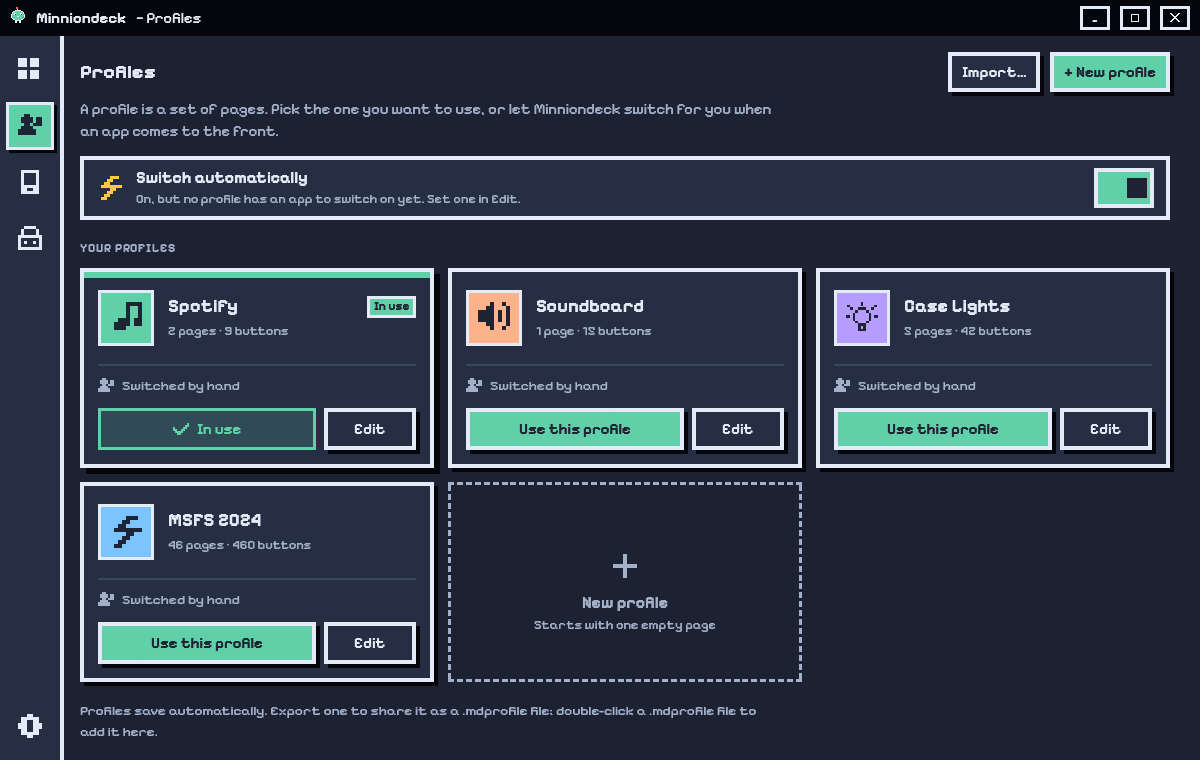
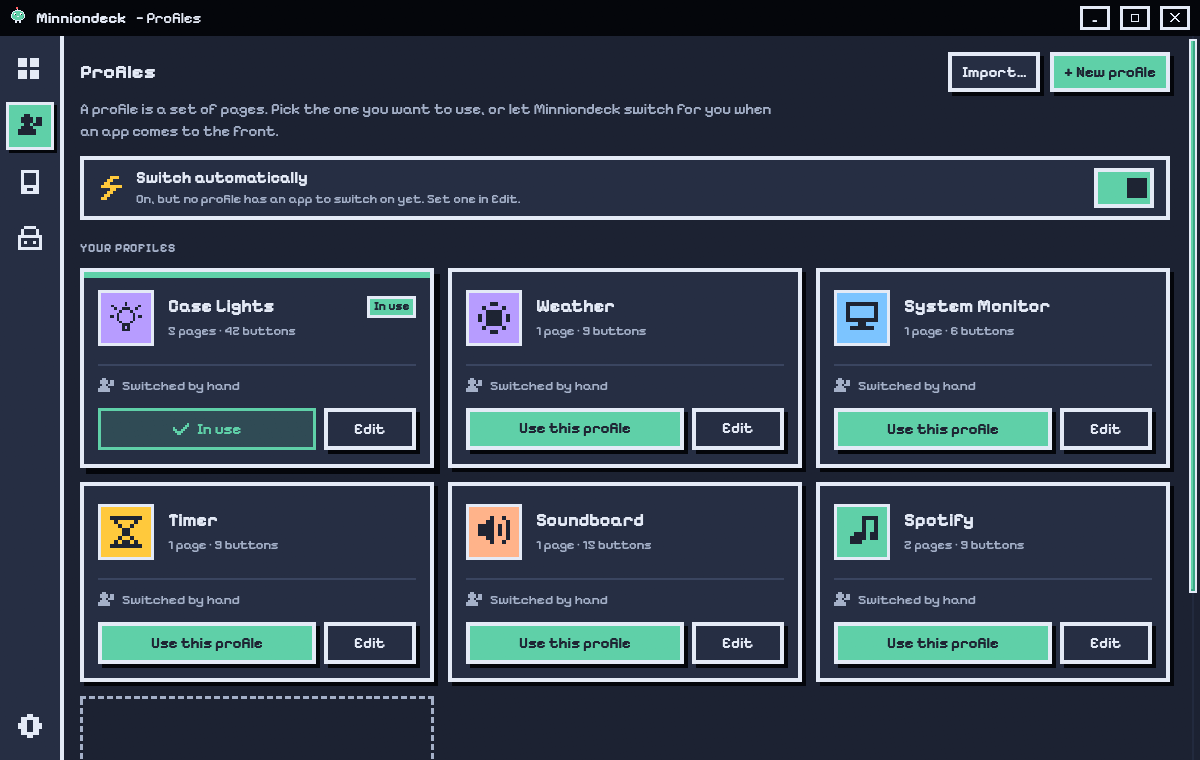
README: show the range of plugins, leave out MSFS for now

diff --git a/README.md b/README.md
@@ -5,7 +5,7 @@
 # MinnionDeck
 
 **A Stream Deck for your Windows PC, with no hardware to buy.**
-Big square buttons for music, apps, keys, lights, games and more, on your screen and on any phone.
+Big square buttons for apps, keys, sounds, timers, weather, PC lights and more, on your screen and on any phone.
 
 [![Release](https://img.shields.io/github/v/release/minnnion/MinnionDeck?color=5fd0a8&label=release)](https://github.com/minnnion/MinnionDeck/releases/latest)
 ![Platform](https://img.shields.io/badge/platform-Windows%2010%20%2F%2011-7cc4ff)
@@ -14,7 +14,7 @@ Big square buttons for music, apps, keys, lights, games and more, on your screen
 
 **[Download](https://github.com/minnnion/MinnionDeck/releases/latest)** · **[Website](https://minnnion.github.io)** · **[Features](#features)** · **[How it works](#how-it-works)**
 
-<img src="docs/screenshots/deck.png" alt="MinnionDeck showing the Spotify profile" width="880">
+<img src="docs/screenshots/deck.png" alt="MinnionDeck showing the Case Lights profile" width="880">
 
 </div>
 
@@ -22,22 +22,22 @@ Big square buttons for music, apps, keys, lights, games and more, on your screen
 
 ## Why MinnionDeck
 
-Streamers, gamers, flight-sim pilots and anyone who does the same things on a PC over and over want **one press for each job**. A hardware deck is one way to do that, but it costs money, takes desk space and only works where it's plugged in.
+Streamers, gamers and anyone who does the same things on a PC over and over want **one press for each job**. A hardware deck is one way to do that, but it costs money, takes desk space and only works where it's plugged in.
 
 MinnionDeck gives you the same thing in software:
 
 - **No hardware.** Your PC screen is the deck, and so is any phone or tablet you already own.
 - **Nothing to install on the phone.** Scan a QR code, press Allow on the PC, and your buttons are on the phone.
 - **Made to look good.** A crisp pixel-art style, with your own pictures and GIFs if you prefer.
-- **Free plugins.** Spotify, a soundboard, timers, weather, PC case lights, Microsoft Flight Simulator and more, each with a ready-made profile.
+- **Free plugins.** A soundboard, timers, weather, a live system monitor, PC case lights, music and more, each with a ready-made profile.
 - **Your data stays yours.** Everything lives in one folder you choose, encrypted with a key made for your install.
 
 ## Who it's for
 
 | | |
 |---|---|
-| **Streamers** | Scene and sound buttons, a soundboard, music controls, all on a phone beside the camera. |
-| **Gamers and sim pilots** | Whole cockpits of switches and knobs for Microsoft Flight Simulator 2024 and the Fenix A320, page after page. |
+| **Streamers** | Sound effects, scene keys and timers, all on a phone beside the camera. |
+| **Gamers** | Key combinations and macros, a soundboard, and CPU, GPU and memory at a glance while you play. |
 | **Everyday work** | Open apps and websites, type text you use often, mute, change volume, run key combinations. |
 | **Home office and desk setups** | Change your PC case lights, keep an eye on CPU, GPU and memory, start a focus timer. |
 
@@ -53,12 +53,25 @@ MinnionDeck gives you the same thing in software:
 
 <div align="center">
 <img src="docs/screenshots/editor.png" alt="Making a new button: choosing what it does" width="820">
-<br><sub>Making a button: give it a name, pick what it does from built-in actions and plugins, and see it as you go.</sub>
+<br><sub>Making a button: pick what it does, fill in the details, and give it a look for each state (here a countdown: Stopped and Running).</sub>
 </div>
+
+### Decks for everything
+
+<table>
+<tr>
+<td align="center" width="50%"><img src="docs/screenshots/timer.png" alt="Timer profile"><br><sub><b>Timer</b>: focus, stopwatch, clock and one-press countdowns</sub></td>
+<td align="center" width="50%"><img src="docs/screenshots/weather.png" alt="Weather profile"><br><sub><b>Weather</b>: now, high and low, rain, wind, air quality</sub></td>
+</tr>
+<tr>
+<td align="center" width="50%"><img src="docs/screenshots/system-monitor.png" alt="System Monitor profile"><br><sub><b>System Monitor</b>: CPU, GPU, memory, disk and network, live</sub></td>
+<td align="center" width="50%"><img src="docs/screenshots/soundboard.png" alt="Soundboard profile"><br><sub><b>Soundboard</b>: a sound on every key, and one to stop them all</sub></td>
+</tr>
+</table>
 
 ### Profiles that switch by themselves
 
-Keep a profile for each thing you do. Turn on **Switch automatically** and MinnionDeck changes profile when an app such as Spotify or your game comes to the front. Export a profile as a `.mdprofile` file to share it; double-click one to add it.
+Keep a profile for each thing you do. Turn on **Switch automatically** and MinnionDeck changes profile when an app such as your game, browser or music player comes to the front. Export a profile as a `.mdprofile` file to share it; double-click one to add it.
 
 <div align="center">
 <img src="docs/screenshots/profiles.png" alt="The Profiles page" width="820">
@@ -73,26 +86,25 @@ Open the **Phones** page, scan the QR code with your phone's camera and open the
 - Add it to your home screen and it opens full screen, like an app.
 
 <div align="center">
-<img src="docs/screenshots/phone-preview.png" alt="The phone preview on the Phones page" width="560">
+<img src="docs/screenshots/phone-preview.png" alt="The phone preview on the Phones page, in portrait" width="460">
 </div>
 
 ### Plugins from the Marketplace
 
-Plugins add whole sets of buttons. Install them from the **Marketplace** page inside the app, or tick them in the setup. Each one comes with a ready-made profile, and every download is checked against its SHA-256 before it installs.
+Plugins add whole sets of buttons. Install them from the **Marketplace** page inside the app (open one to see what it adds and what's new), or tick them in the setup. Each one comes with a ready-made profile, and every download is checked against its SHA-256 before it installs.
 
 | Plugin | What it adds |
 |---|---|
-| **Spotify** | Play or pause, next and previous, like, volume and a live Now playing screen. |
-| **Soundboard** | Play sound files from your buttons. |
-| **Timer** | Clock, countdown, stopwatch and focus timer. |
-| **Weather** | Live weather on your buttons. |
-| **System Monitor** | CPU, GPU, memory, disk, network and the busiest app, live. |
 | **Case Lights** | Finds out why your PC's case lights act up, and sets them for you. |
-| **MSFS 2024** | Flight controls, views and cameras for Microsoft Flight Simulator 2024. |
+| **System Monitor** | CPU, GPU, memory, disk, network and the busiest app, live. |
+| **Timer** | Clock, countdown, stopwatch and focus timer. |
+| **Weather** | Live weather for your town on your buttons. |
+| **Soundboard** | Play sound files from your buttons. |
 | **Speech** | Reads text aloud with natural voices, on your PC. |
+| **Spotify** | Play or pause, skip, like, volume and what's playing. |
 
 <div align="center">
-<img src="docs/screenshots/marketplace.png" alt="The Marketplace page" width="820">
+<img src="docs/screenshots/marketplace.png" alt="A plugin's details in the Marketplace" width="820">
 </div>
 
 ### Made to live on your PC
@@ -142,7 +154,7 @@ The source is here to read. MinnionDeck is meant to be installed with the offici
 
 <div align="center">
 <br>
-<img src="docs/screenshots/deck-light.png" alt="MinnionDeck in the light theme" width="720">
+<img src="docs/screenshots/deck-light.png" alt="MinnionDeck in the light theme, showing the Weather profile" width="720">
 <br><br>
 <sub>Made by <a href="https://github.com/minnnion">minnnion</a> · <a href="https://minnnion.github.io">minnnion.github.io</a></sub>
 </div>
